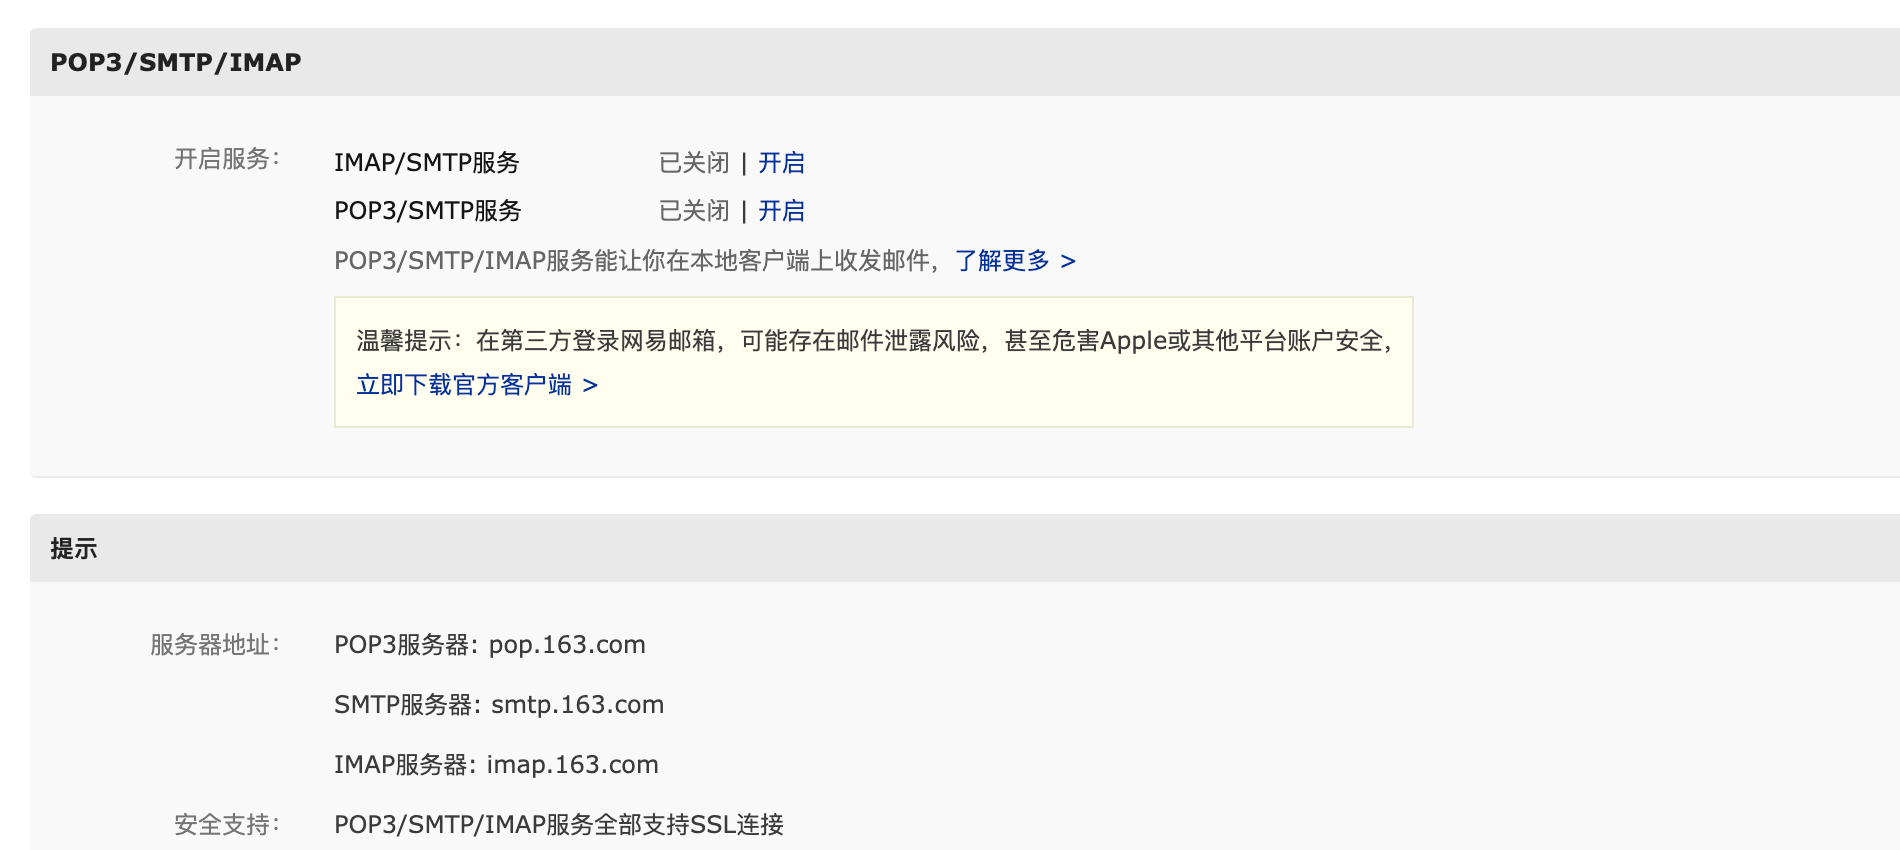
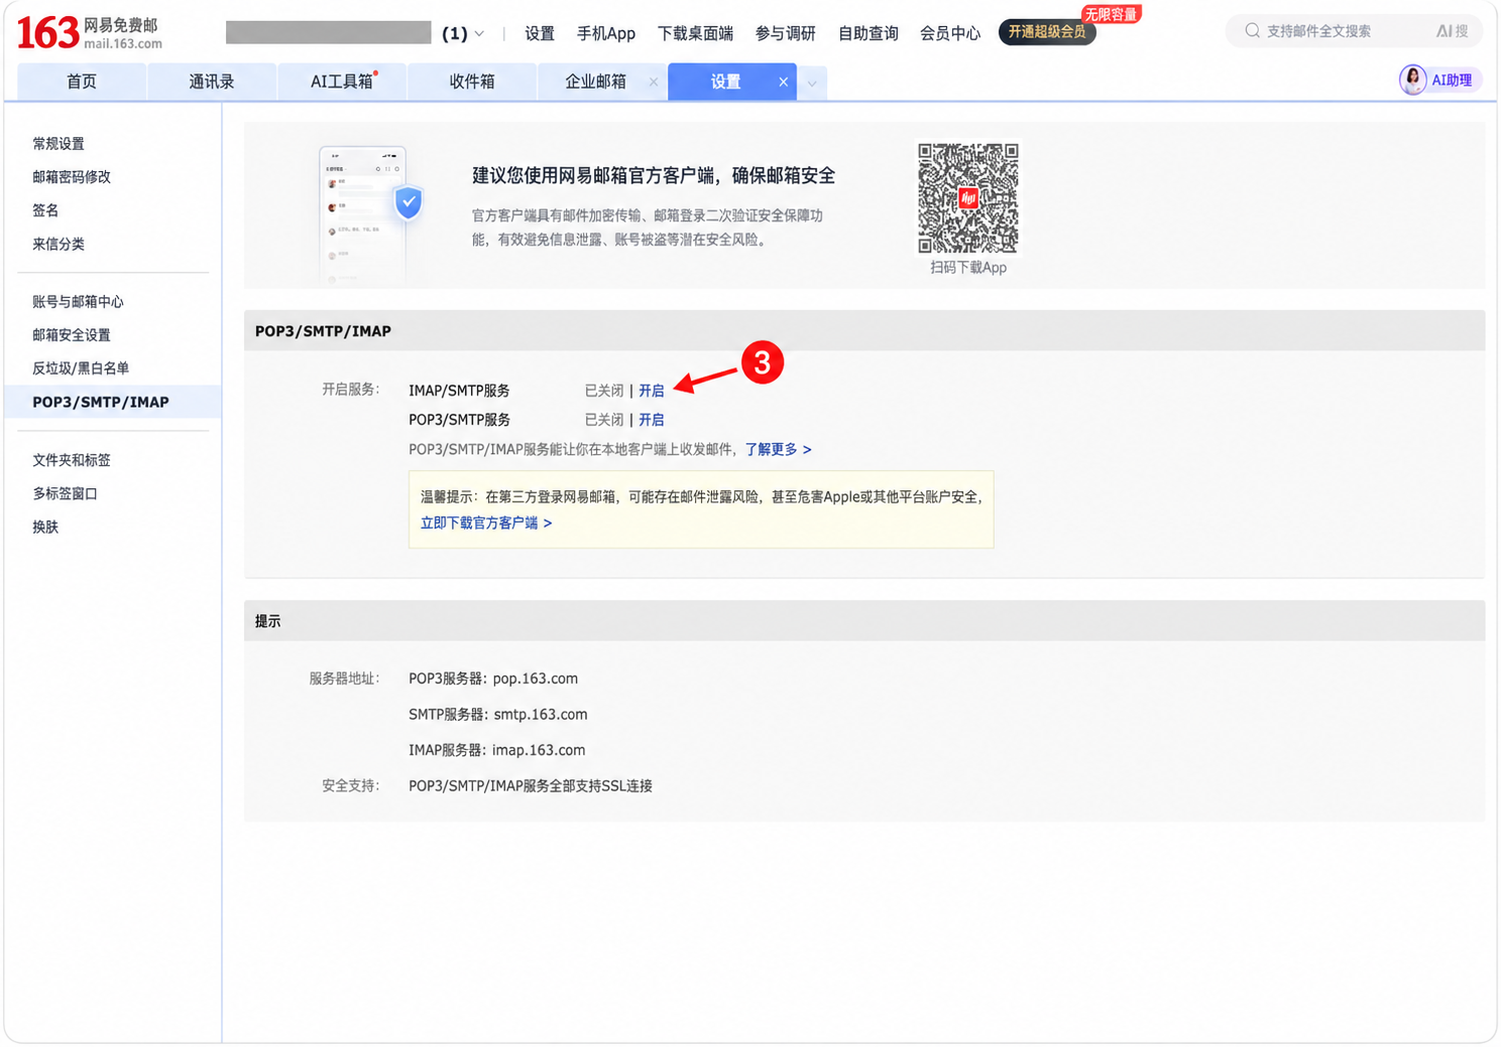
修正网易教程截图范围和转发邮箱说明

diff --git a/web/assets/guides/outlook.html b/web/assets/guides/outlook.html
@@ -1,1 +1,1 @@
-<!doctype html><html lang="zh-CN"><head><meta charset="utf-8"><meta name="viewport" content="width=device-width,initial-scale=1"><title>学校邮件自动转发至接收邮箱</title><style>body{font-family:system-ui,sans-serif;color:#253b33;background:#f5f7f8;margin:0}main{max-width:1100px;margin:32px auto;padding:24px;background:white}h1{font-size:26px}figure{margin:32px 0}figcaption{font-weight:600;margin-bottom:12px}img{width:100%;height:auto;display:block}a{color:#245e4d}p{line-height:1.7} .setup-links{display:flex;gap:16px;flex-wrap:wrap}</style></head><body><main><h1>学校邮件自动转发至接收邮箱</h1><div class="forwarding-guide"><figure><figcaption>1. 打开设置</figcaption><a href="/assets/outlook-forwarding/01.png" target="_blank" rel="noopener"><img src="/assets/outlook-forwarding/01.f2311f274b36.webp" width="1583" height="994" alt="打开设置" loading="eager" fetchpriority="high" decoding="async"></a></figure><figure><figcaption>2. 点击选项</figcaption><a href="/assets/outlook-forwarding/02.png" target="_blank" rel="noopener"><img src="/assets/outlook-forwarding/02.d8c1bc680103.webp" width="1582" height="994" alt="点击选项" loading="lazy" decoding="async"></a></figure><figure><figcaption>3. 进入收件箱规则并新建</figcaption><a href="/assets/outlook-forwarding/03.png" target="_blank" rel="noopener"><img src="/assets/outlook-forwarding/03.45d1199a2ecf.webp" width="1583" height="993" alt="进入收件箱规则并新建" loading="lazy" decoding="async"></a></figure><figure><figcaption>4. 填写规则名称</figcaption><a href="/assets/outlook-forwarding/04.png" target="_blank" rel="noopener"><img src="/assets/outlook-forwarding/04.68d8331ee25c.webp" width="1583" height="994" alt="填写规则名称" loading="lazy" decoding="async"></a></figure><figure><figcaption>5. 选择适用于所有邮件</figcaption><a href="/assets/outlook-forwarding/05.png" target="_blank" rel="noopener"><img src="/assets/outlook-forwarding/05.1657678d1744.webp" width="1583" height="993" alt="选择适用于所有邮件" loading="lazy" decoding="async"></a></figure><figure><figcaption>6. 选择转发操作</figcaption><a href="/assets/outlook-forwarding/06.png" target="_blank" rel="noopener"><img src="/assets/outlook-forwarding/06.0c1582ff7786.webp" width="1583" height="993" alt="选择转发操作" loading="lazy" decoding="async"></a></figure><figure><figcaption>7. 填写设置页面中的接收邮箱并保存</figcaption><a href="/assets/outlook-forwarding/07.png" target="_blank" rel="noopener"><img src="/assets/outlook-forwarding/07.164b1d13a8aa.webp" width="1583" height="993" alt="填写设置页面中的接收邮箱并保存" loading="lazy" decoding="async"></a></figure><figure><figcaption>8. 点击确定，保存转发规则</figcaption><a href="/assets/outlook-forwarding/08.png" target="_blank" rel="noopener"><img src="/assets/outlook-forwarding/08.020afd471af9.webp" width="1583" height="994" alt="点击确定，保存转发规则" loading="lazy" decoding="async"></a></figure></div><p>教程截图以 QQ 邮箱为例；请将收件地址替换为你在账户设置中选择并填写的接收邮箱（QQ 或网易邮箱）。</p></main></body></html>
+<!doctype html><html lang="zh-CN"><head><meta charset="utf-8"><meta name="viewport" content="width=device-width,initial-scale=1"><title>学校邮件自动转发至接收邮箱</title><style>body{font-family:system-ui,sans-serif;color:#253b33;background:#f5f7f8;margin:0}main{max-width:1100px;margin:32px auto;padding:24px;background:white}h1{font-size:26px}figure{margin:32px 0}figcaption{font-weight:600;margin-bottom:12px}img{width:100%;height:auto;display:block}a{color:#245e4d}p{line-height:1.7} .setup-links{display:flex;gap:16px;flex-wrap:wrap}</style></head><body><main><h1>学校邮件自动转发至接收邮箱</h1><div class="forwarding-guide"><figure><figcaption>1. 打开设置</figcaption><a href="/assets/outlook-forwarding/01.png" target="_blank" rel="noopener"><img src="/assets/outlook-forwarding/01.f2311f274b36.webp" width="1583" height="994" alt="打开设置" loading="eager" fetchpriority="high" decoding="async"></a></figure><figure><figcaption>2. 点击选项</figcaption><a href="/assets/outlook-forwarding/02.png" target="_blank" rel="noopener"><img src="/assets/outlook-forwarding/02.d8c1bc680103.webp" width="1582" height="994" alt="点击选项" loading="lazy" decoding="async"></a></figure><figure><figcaption>3. 进入收件箱规则并新建</figcaption><a href="/assets/outlook-forwarding/03.png" target="_blank" rel="noopener"><img src="/assets/outlook-forwarding/03.45d1199a2ecf.webp" width="1583" height="993" alt="进入收件箱规则并新建" loading="lazy" decoding="async"></a></figure><figure><figcaption>4. 填写规则名称</figcaption><a href="/assets/outlook-forwarding/04.png" target="_blank" rel="noopener"><img src="/assets/outlook-forwarding/04.68d8331ee25c.webp" width="1583" height="994" alt="填写规则名称" loading="lazy" decoding="async"></a></figure><figure><figcaption>5. 选择适用于所有邮件</figcaption><a href="/assets/outlook-forwarding/05.png" target="_blank" rel="noopener"><img src="/assets/outlook-forwarding/05.1657678d1744.webp" width="1583" height="993" alt="选择适用于所有邮件" loading="lazy" decoding="async"></a></figure><figure><figcaption>6. 选择转发操作</figcaption><a href="/assets/outlook-forwarding/06.png" target="_blank" rel="noopener"><img src="/assets/outlook-forwarding/06.0c1582ff7786.webp" width="1583" height="993" alt="选择转发操作" loading="lazy" decoding="async"></a></figure><figure><figcaption>7. 填写设置页面中的接收邮箱并保存</figcaption><a href="/assets/outlook-forwarding/07.png" target="_blank" rel="noopener"><img src="/assets/outlook-forwarding/07.232d7377812c.webp" width="1583" height="993" alt="填写设置页面中的接收邮箱并保存" loading="lazy" decoding="async"></a></figure><figure><figcaption>8. 点击确定，保存转发规则</figcaption><a href="/assets/outlook-forwarding/08.png" target="_blank" rel="noopener"><img src="/assets/outlook-forwarding/08.020afd471af9.webp" width="1583" height="994" alt="点击确定，保存转发规则" loading="lazy" decoding="async"></a></figure></div></main></body></html>

diff --git a/web/assets/guides/netease.html b/web/assets/guides/netease.html
@@ -1,1 +1,1 @@
-<!doctype html><html lang="zh-CN"><head><meta charset="utf-8"><meta name="viewport" content="width=device-width,initial-scale=1"><title>获取网易邮箱客户端授权码</title><style>body{font-family:system-ui,sans-serif;color:#253b33;background:#f5f7f8;margin:0}main{max-width:1100px;margin:32px auto;padding:24px;background:white}h1{font-size:26px}figure{margin:24px 0}figcaption{font-weight:600;margin-bottom:12px}img{width:100%;height:auto;display:block}a{color:#245e4d}</style></head><body><main><h1>获取网易邮箱客户端授权码</h1><div class="forwarding-guide"><figure><figcaption>1. 点击顶部“设置”，再选择“POP3/SMTP/IMAP”</figcaption><div class="annotated-shot"><img src="/assets/netease-mail/01.png" width="1000" height="1000" alt="网易邮箱顶部设置菜单，POP3/SMTP/IMAP 选项已展开" loading="eager" fetchpriority="high" decoding="async"><svg viewBox="0 0 1000 1000" aria-hidden="true"><path class="mark-line" d="M 835 104 L 215 137"/><path fill="#e21d24" d="M190 137 l26 -15 -2 30 z"/><circle class="mark-circle" cx="860" cy="102" r="42"/><text class="mark-number" x="860" y="102">1</text><path class="mark-line" d="M 817 640 L 470 640"/><path fill="#e21d24" d="M445 640 l26 -15 -2 30 z"/><circle class="mark-circle" cx="860" cy="640" r="42"/><text class="mark-number" x="860" y="640">2</text></svg></div></figure><figure><figcaption>3. 开启 IMAP/SMTP 服务，再按页面提示新增客户端授权密码</figcaption><div class="annotated-shot"><img src="/assets/netease-mail/02.png" width="1900" height="850" alt="网易邮箱 POP3/SMTP/IMAP 设置页面，IMAP/SMTP 服务开启入口" loading="lazy" decoding="async"><svg viewBox="0 0 1900 850" aria-hidden="true"><path class="mark-line" d="M 1515 160 L 848 160"/><path fill="#e21d24" d="M820 160 l28 -16 0 32 z"/><circle class="mark-circle" cx="1560" cy="160" r="46"/><text class="mark-number" x="1560" y="160">3</text></svg></div></figure></div></main></body></html>
+<!doctype html><html lang="zh-CN"><head><meta charset="utf-8"><meta name="viewport" content="width=device-width,initial-scale=1"><title>获取网易邮箱客户端授权码</title><style>body{font-family:system-ui,sans-serif;color:#253b33;background:#f5f7f8;margin:0}main{max-width:1100px;margin:32px auto;padding:24px;background:white}h1{font-size:26px}figure{margin:24px 0}figcaption{font-weight:600;margin-bottom:12px}img{width:100%;height:auto;display:block}a{color:#245e4d}</style></head><body><main><h1>获取网易邮箱客户端授权码</h1><div class="forwarding-guide"><figure><figcaption>1. 点击顶部“设置”，再选择“POP3/SMTP/IMAP”</figcaption><div class="annotated-shot"><img src="/assets/netease-mail/01.a649b677a833.webp" width="1501" height="1048" alt="网易邮箱顶部设置菜单，POP3/SMTP/IMAP 选项已展开" loading="eager" fetchpriority="high" decoding="async"></div></figure><figure><figcaption>3. 开启 IMAP/SMTP 服务，再按页面提示新增客户端授权密码</figcaption><div class="annotated-shot"><img src="/assets/netease-mail/02.7d30f188187a.webp" width="1501" height="1047" alt="网易邮箱 POP3/SMTP/IMAP 设置页面，IMAP/SMTP 服务开启入口" loading="lazy" decoding="async"></div></figure></div></main></body></html>
